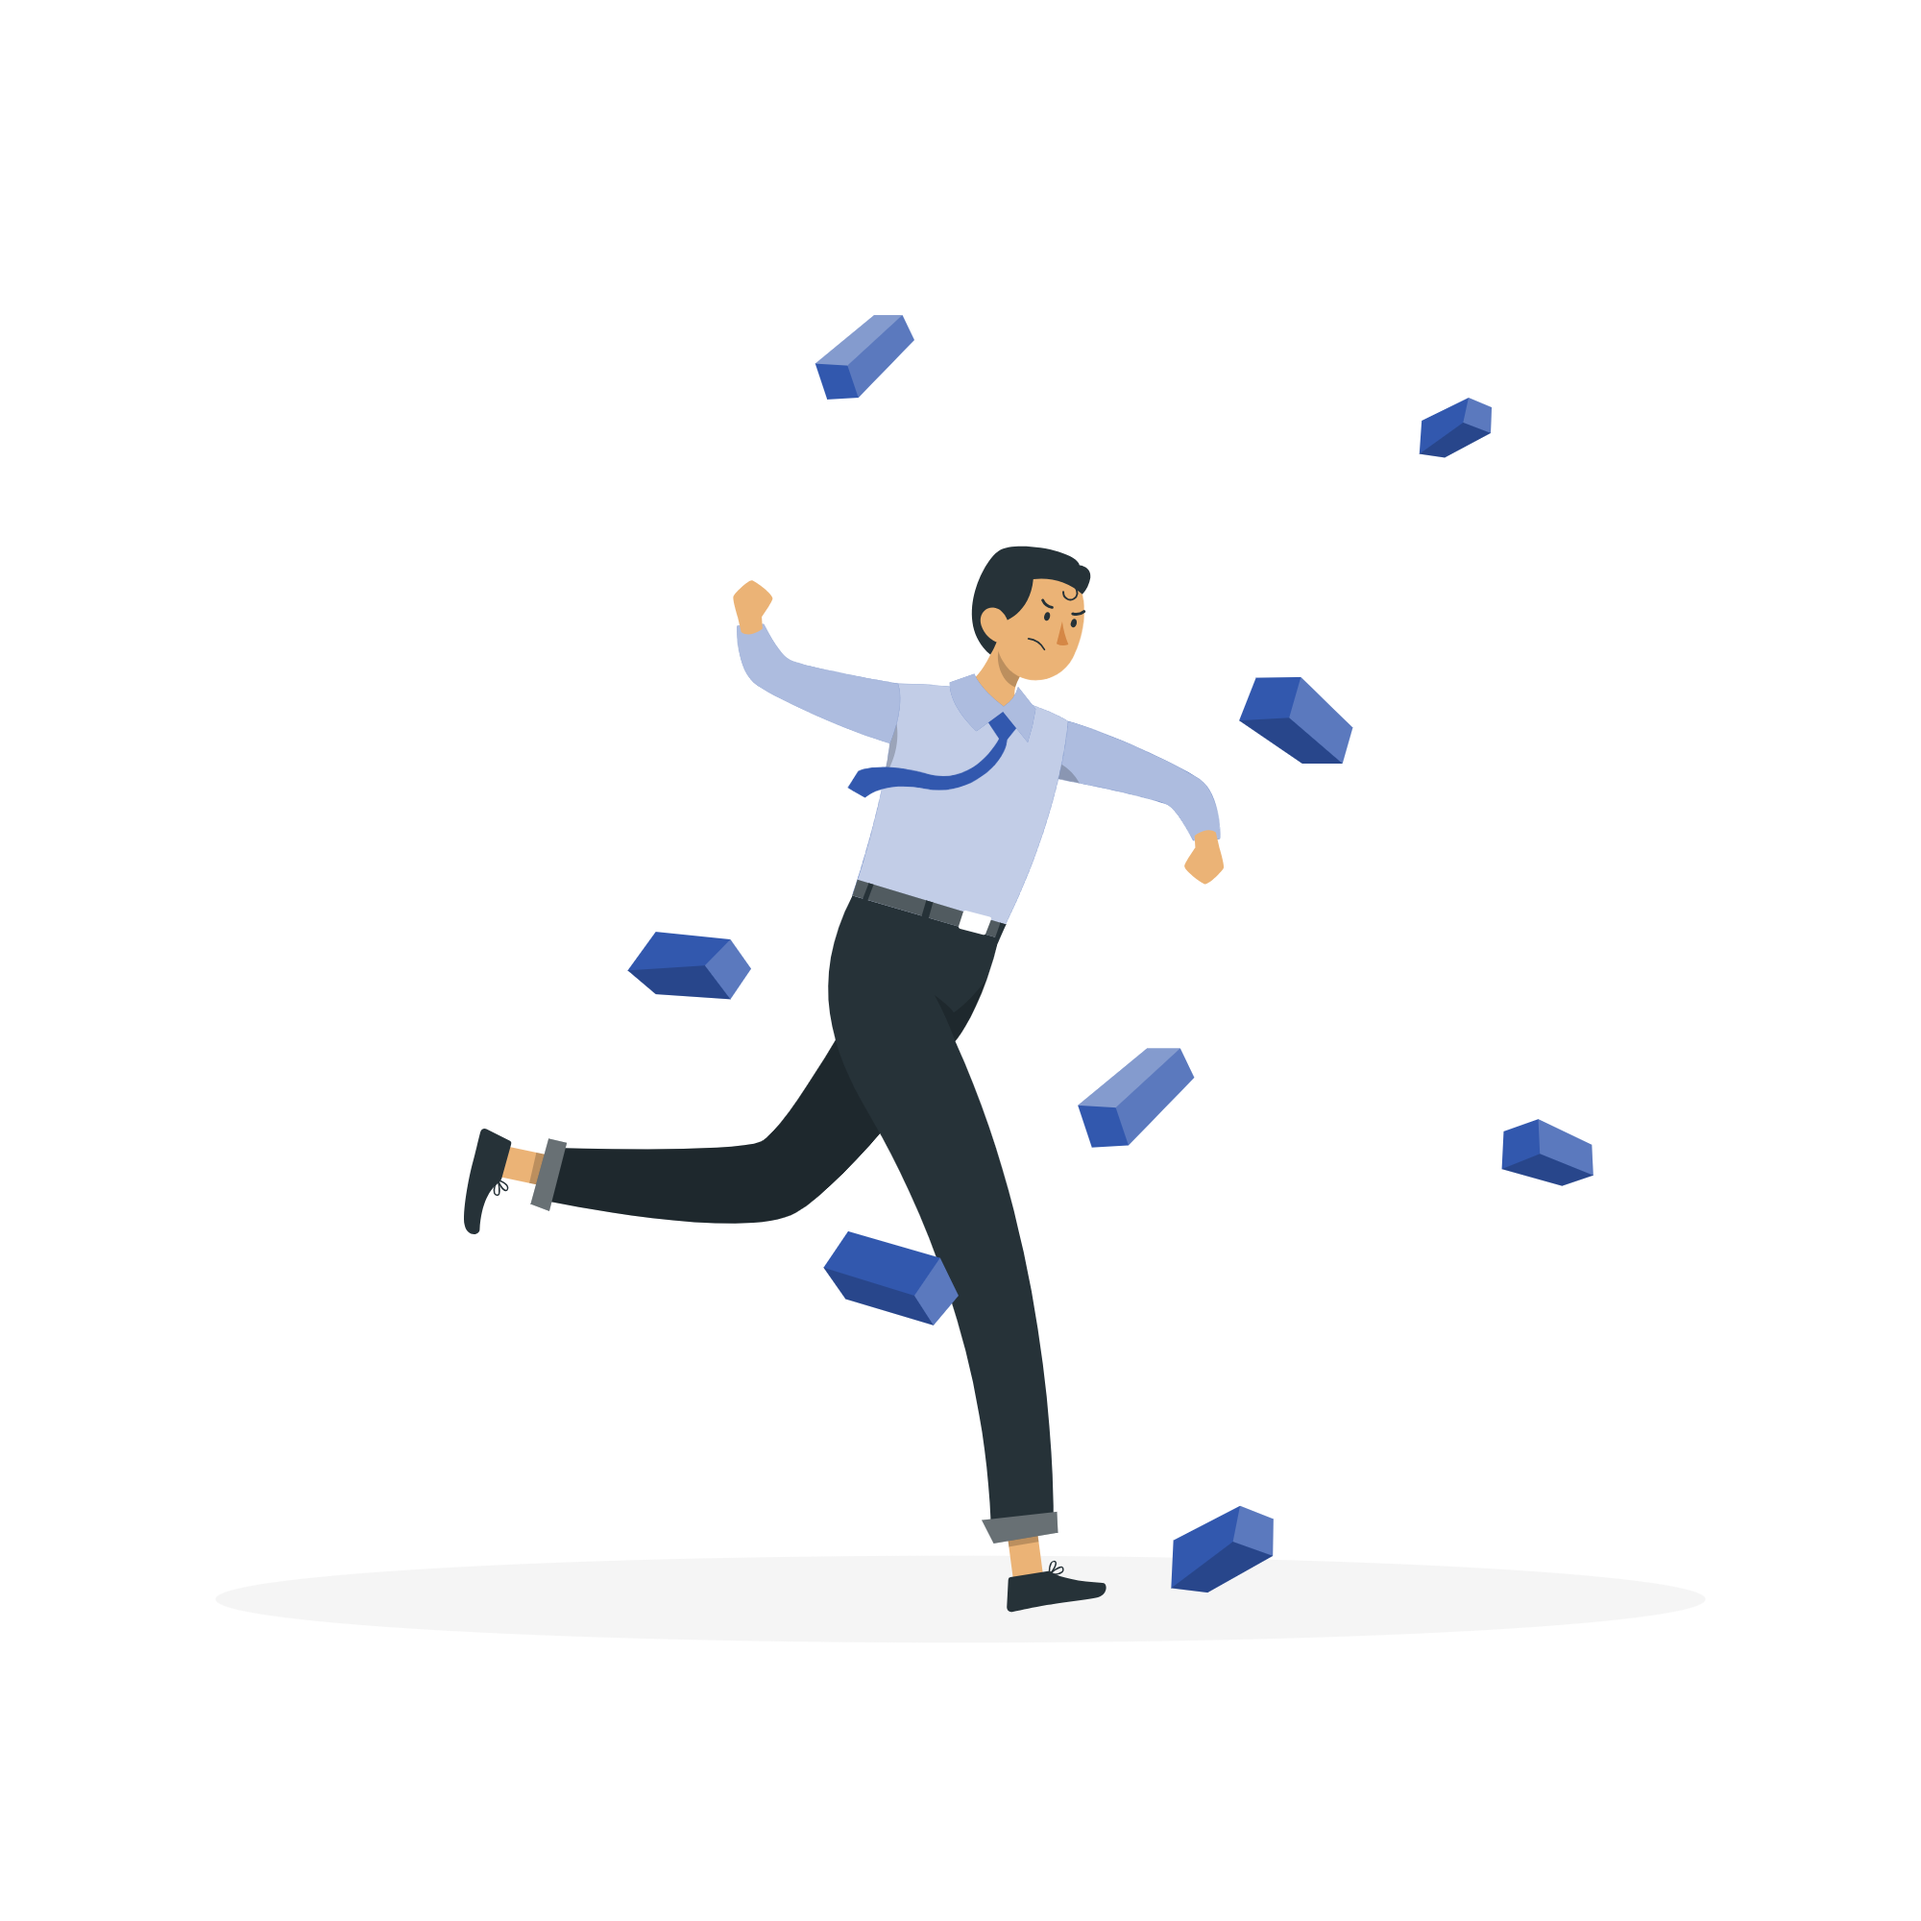
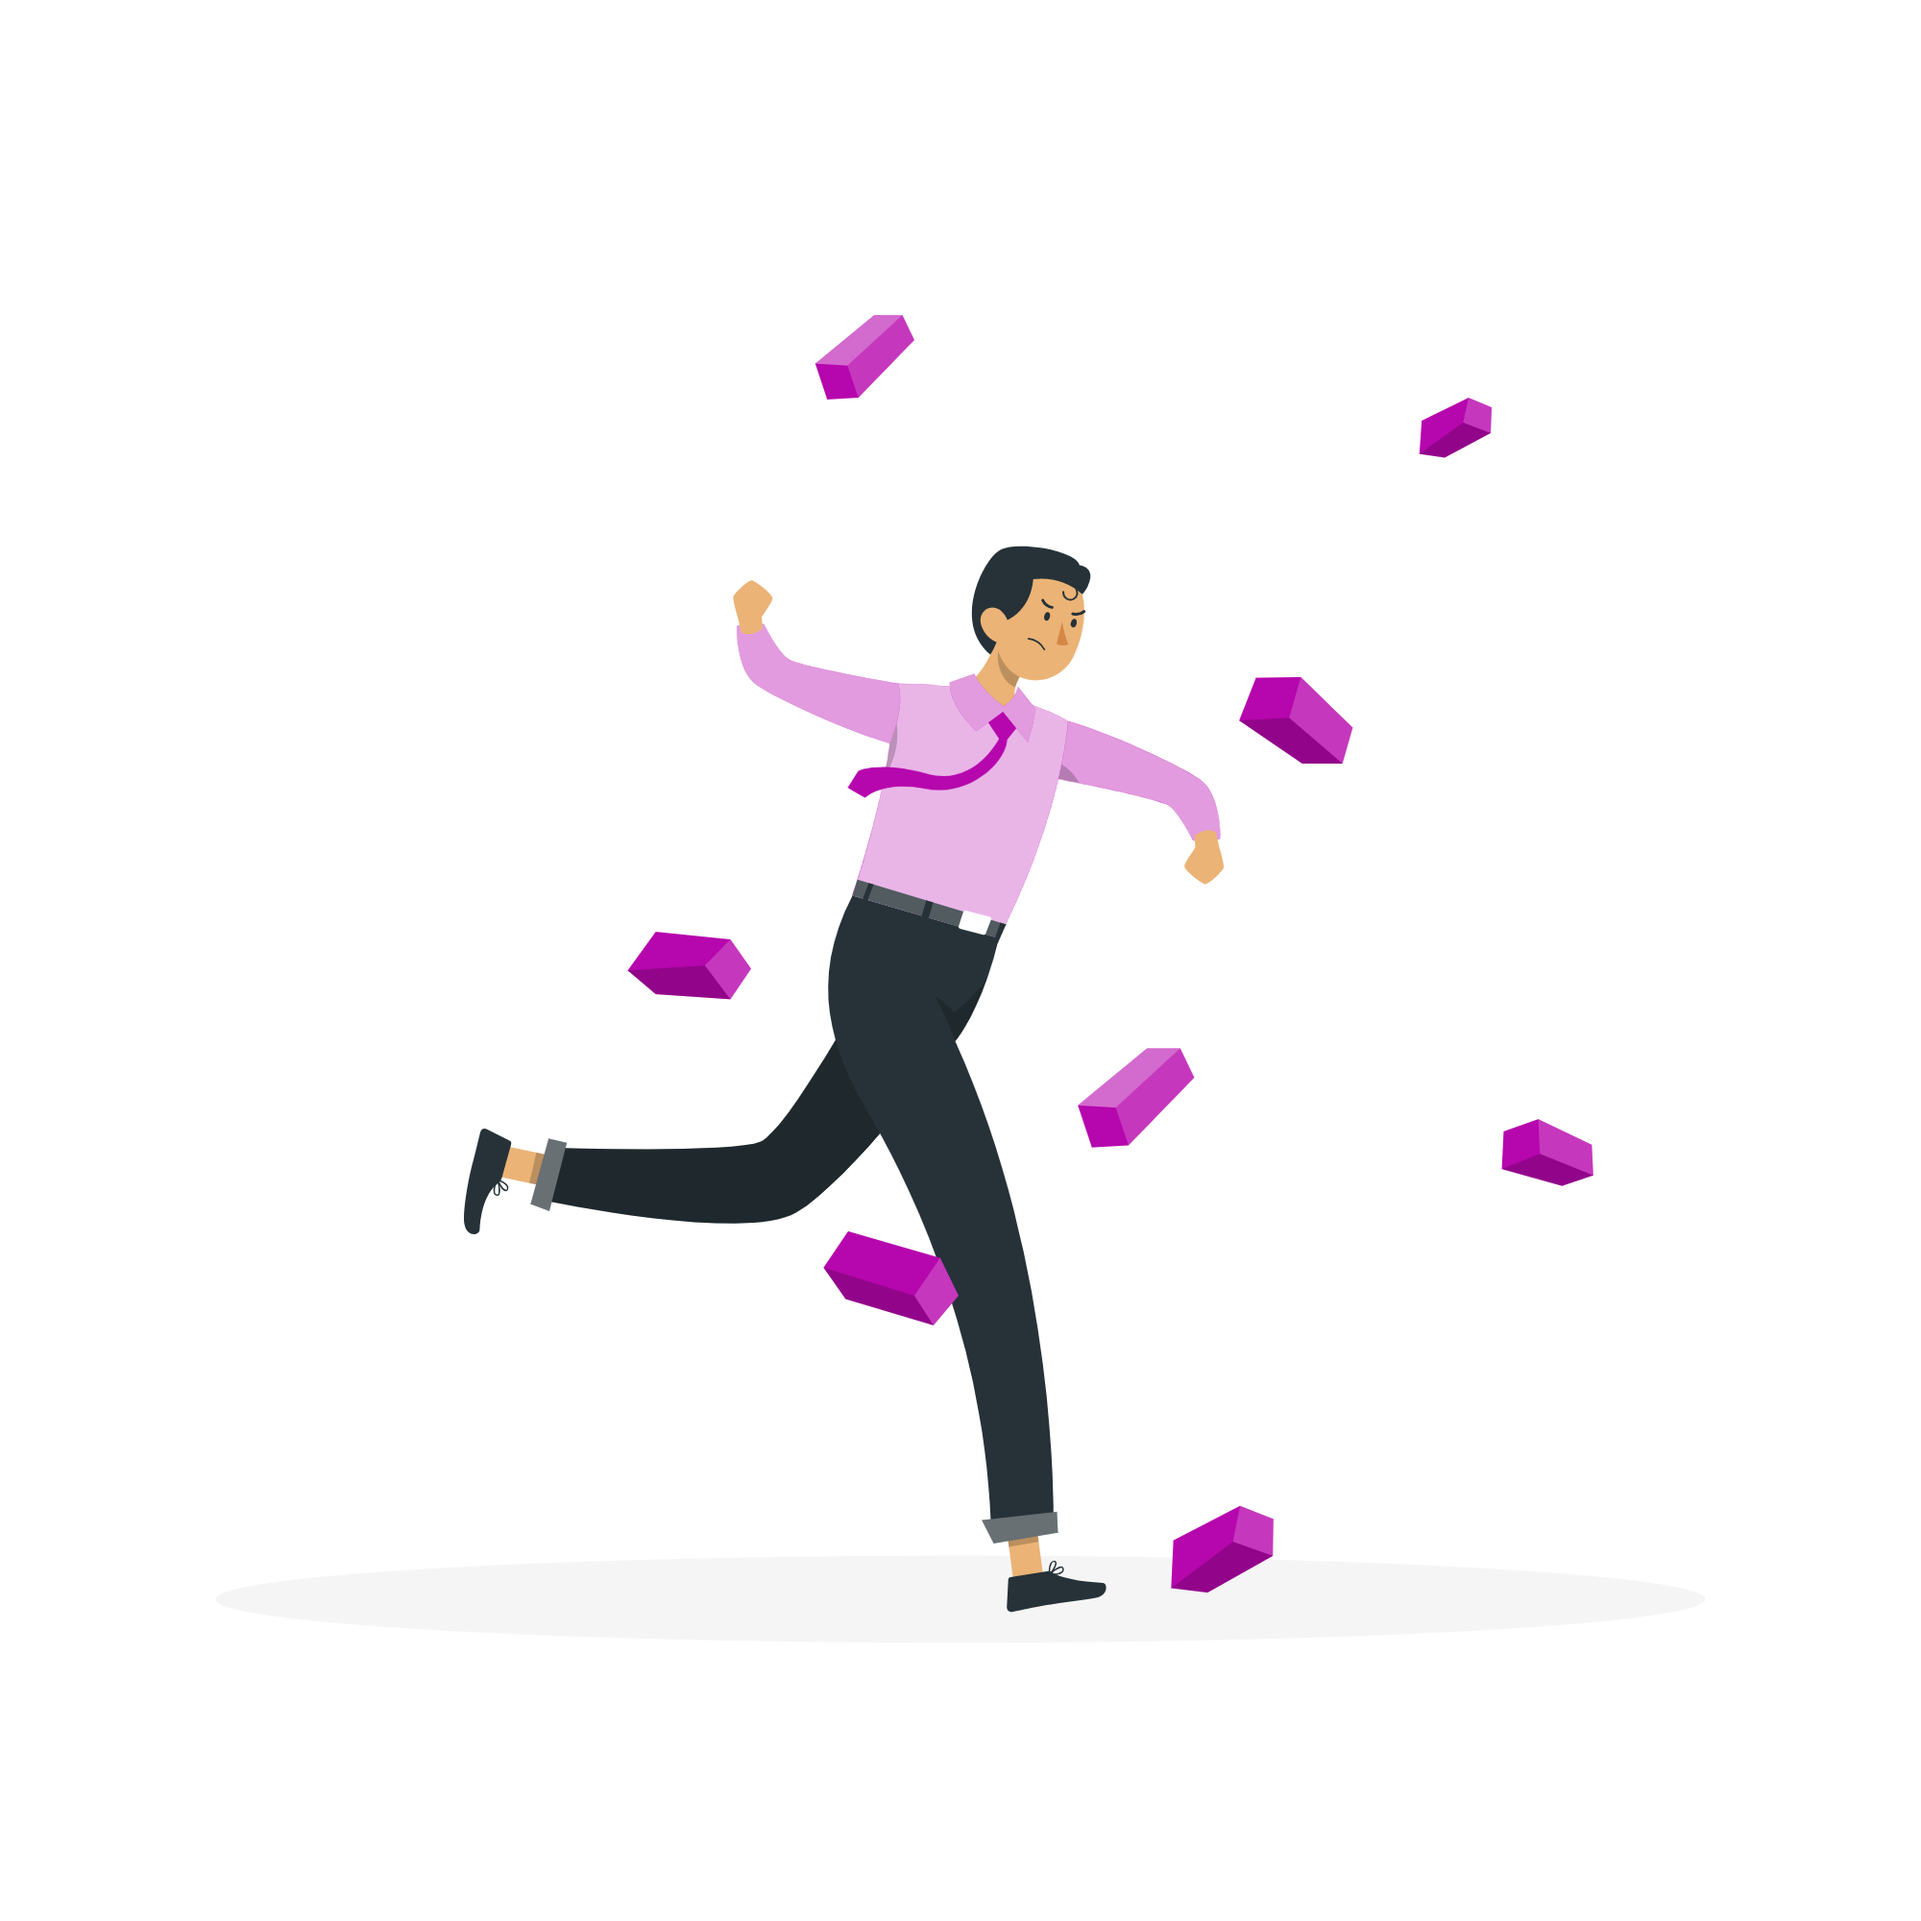
Update

diff --git a/src/screens/OnboardingScreen.js b/src/screens/OnboardingScreen.js
@@ -2,6 +2,7 @@ import React from 'react';
 import { View, Text, TouchableOpacity, StyleSheet, Image, StatusBar } from 'react-native';
 import { AppColors } from '../utils/AppColors';
 import FastImage from 'react-native-fast-image';
+import { LinearGradientView } from '../utils/General';
 
 const img = require('../../assets/images/breaking_barriers_rafiki.png');
 
@@ -15,7 +16,7 @@ export default function OnboardingScreen({ navigation }) {
                 barStyle="dark-content" // or "light-content"
             />
             {/* Logo */}
-            <Text style={styles.logo}>🔍 QuickCash</Text>
+            {/* <Text style={styles.logo}>🔍 QuickCash</Text> */}
 
             {/* Headline */}
             <Text style={styles.headline}>Get Loans Instantly</Text>
@@ -71,10 +72,11 @@ const styles = StyleSheet.create({
         marginBottom: 20,
     },
     headline: {
+        marginBottom: 20,
         fontSize: 28,
         fontWeight: 'bold',
         textAlign: 'center',
-        color: '#111',
+        color: AppColors.gradient_3,
     },
     subText: {
         fontSize: 16,
@@ -89,7 +91,7 @@ const styles = StyleSheet.create({
         marginBottom: 30,
     },
     button: {
-        backgroundColor: AppColors.main_theme,
+        backgroundColor: AppColors.gradient_3,
         paddingVertical: 15,
         paddingHorizontal: 50,
         borderRadius: 10,

diff --git a/src/utils/General.js b/src/utils/General.js
@@ -2,14 +2,17 @@ import LinearGradient from "react-native-linear-gradient"
 import { AppColors } from "./AppColors"
 import { View } from "react-native";
 
-export const LinearGradientView = ({ custom_height }) => {
+export const LinearGradientView = ({ custom_height, custom_width }) => {
     return (
         <View
-            style={{ height: custom_height }}
+            style={{ height: custom_height, width: custom_width }}
         >
             <LinearGradient
-                colors={[AppColors.gradient_1, AppColors.gradient_2, AppColors.gradient_3]}
-                style={{ flex: 1, padding: 16, justifyContent: 'center' }}
+                colors={['#2b0429ff', '#7a0f75ff', '#b606adff']}
+                // colors={[AppColors.gradient_1, AppColors.gradient_2, AppColors.gradient_3]}
+                style={{ width: custom_width, height: custom_height }}
+                start={{ x: 0, y: 0 }}
+                end={{ x: 1, y: 0 }}
             >
                 {/* Optional content inside header */}
             </LinearGradient>

diff --git a/App.js b/App.js
@@ -22,9 +22,7 @@ export default function App() {
           header: null
         }} />
         <Stack.Screen name="Dashboard" component={Dashboard} options={{
-          // title: "Dashboard",
-          // header: () => (<View style={styles.header}></View>)
-          header: () => <LinearGradientView custom_height={100}/>
+          header: () => <LinearGradientView custom_height={100} />
         }} />
         <Stack.Screen name="Details" component={DetailsScreen} />
       </Stack.Navigator>

diff --git a/src/utils/AppColors.js b/src/utils/AppColors.js
@@ -1,6 +1,9 @@
 export const AppColors = {
     main_theme: "#192f6a",
-    gradient_1: "#4c669f",
-    gradient_2: "#3b5998",
-    gradient_3: "#192f6a",
+    // gradient_1: "#4c669f",
+    // gradient_2: "#3b5998",
+    // gradient_3: "#192f6a",
+    gradient_1: "#2b0429ff",
+    gradient_2: "#7a0f75ff",
+    gradient_3: "#b606adff",
 }
